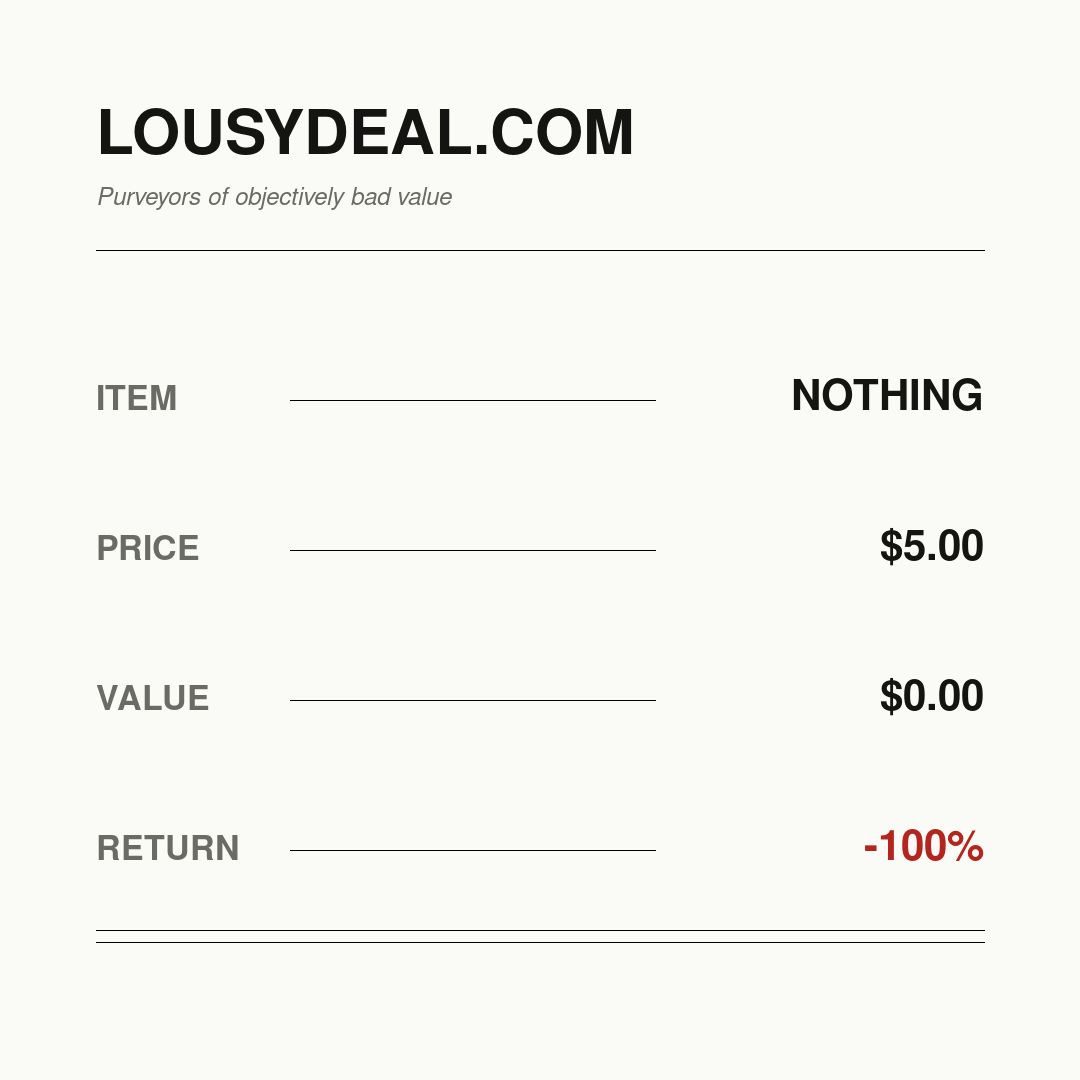
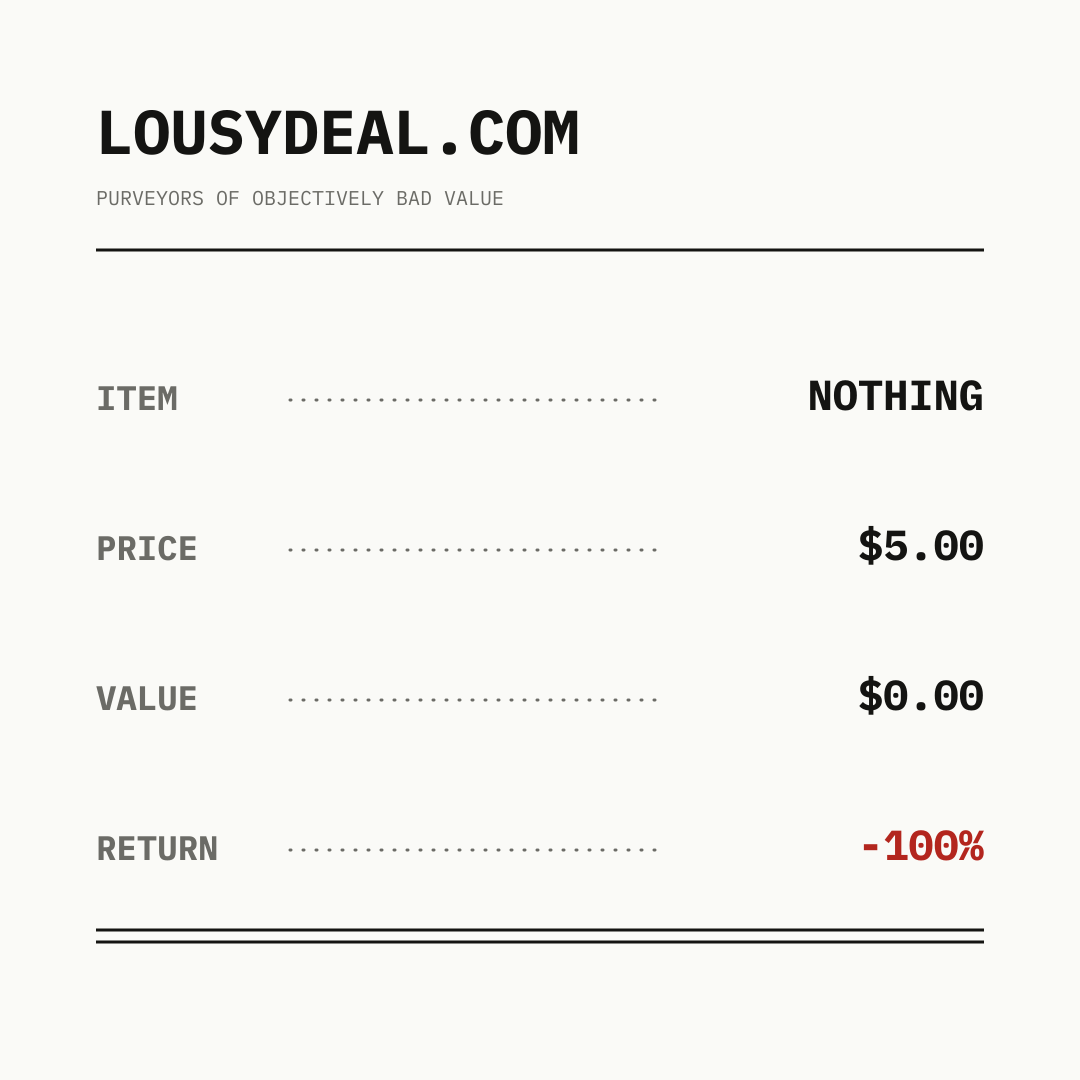
fix: make social assets platform-safe

diff --git a/social/README.md b/social/README.md
@@ -1,7 +1,8 @@
 # Social media kit
 
 This directory contains the shared Lousy Deal account identity. Use the PNG
-files for uploads. Keep the SVG files as editable masters.
+files for uploads. Keep the SVG files as editable masters. The profile master
+is the existing [`icon.svg`](../storefront/src/app/icon.svg).
 
 | Service | Profile image | Cover or post image |
 | --- | --- | --- |
@@ -11,14 +12,49 @@ files for uploads. Keep the SVG files as editable masters.
 | X | `profile.png` | `cover.png` |
 | YouTube | `profile.png` | `cover.png` |
 | LinkedIn | `profile.png` | `cover.png` |
-| Reddit | `profile.png` | `cover.png` |
+| Reddit | `profile.png` | `reddit-cover.png` |
 
 `cover.png` is 2560 by 1440 pixels. Its complete design fits inside the central
 1546 by 423 pixel area so that wide platform crops retain every ledger row.
 `card-square.png` is 1080 by 1080 pixels. `profile.png` is 1024 by 1024 pixels.
+`reddit-cover.png` is 1080 by 128 pixels.
 
-Copy the profile text and image description from [`copy.md`](./copy.md). Do not
-add emoji, exclamation marks, fabricated totals, reviews or testimonials.
+The SVG masters load the committed IBM Plex Mono files from
+`storefront/public/fonts/`. Render PNG replacements against those files. Do not
+accept a system font fallback.
+
+## Profile copy
+
+| Field | Copy |
+| --- | --- |
+| Display name | Lousy Deal |
+| Preferred handle | `lousydeal`, if available |
+| Website | `https://lousydeal.com` |
+
+### Bio
+
+> Numbered certificates of objectively bad value. By Aislopica OÜ.
+
+### About
+
+> Lousy Deal sells numbered digital certificates that document a deliberately
+> lousy deal. A certificate records the purchase and has no rights, ownership,
+> entitlement, membership, service, discount, redemption value or other
+> benefit. The shop also sells ordinary printed merchandise. Lousy Deal is
+> operated by Aislopica OÜ, an Estonian private limited company.
+
+## Image descriptions
+
+Use this description for `profile.png`:
+
+> A red double-ring receipt stamp on an off-white paper background.
+
+Use this description for the cover and card images:
+
+> Receipt-style ledger stating: item, nothing; price, five dollars; value, zero
+> dollars; return, minus one hundred percent.
+
+Do not add emoji, exclamation marks, fabricated totals, reviews or testimonials.
 
 Platform interfaces and crops change. Preview each upload before publication.
 Move the image only when needed to avoid a service's profile-image overlay.
